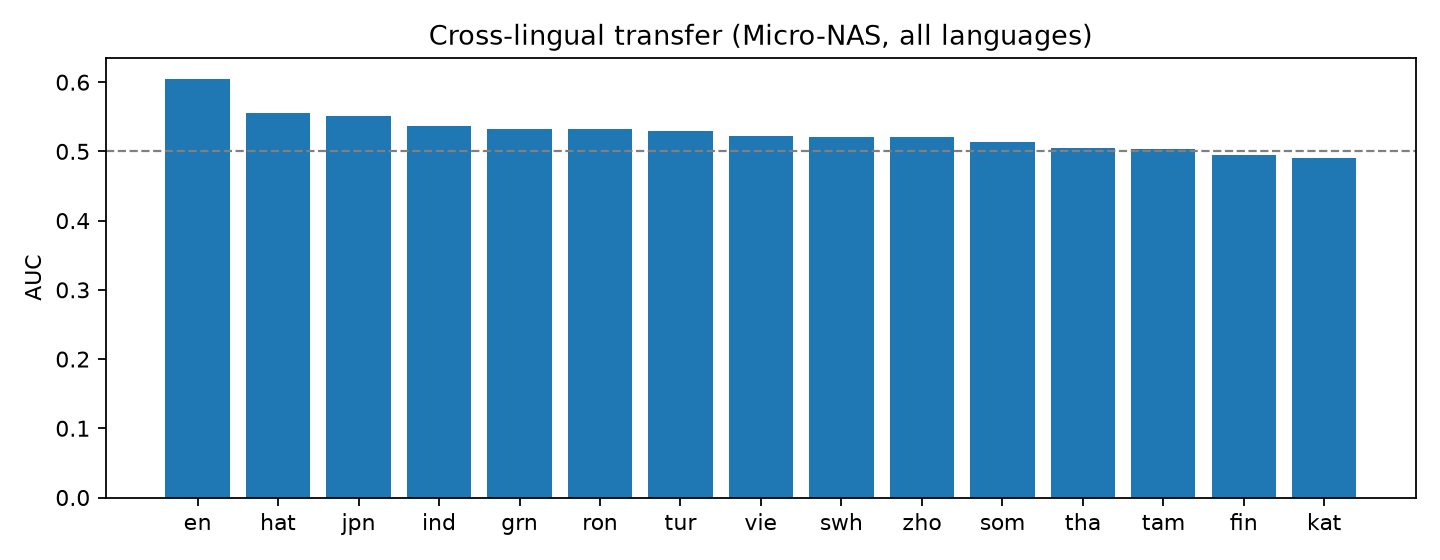
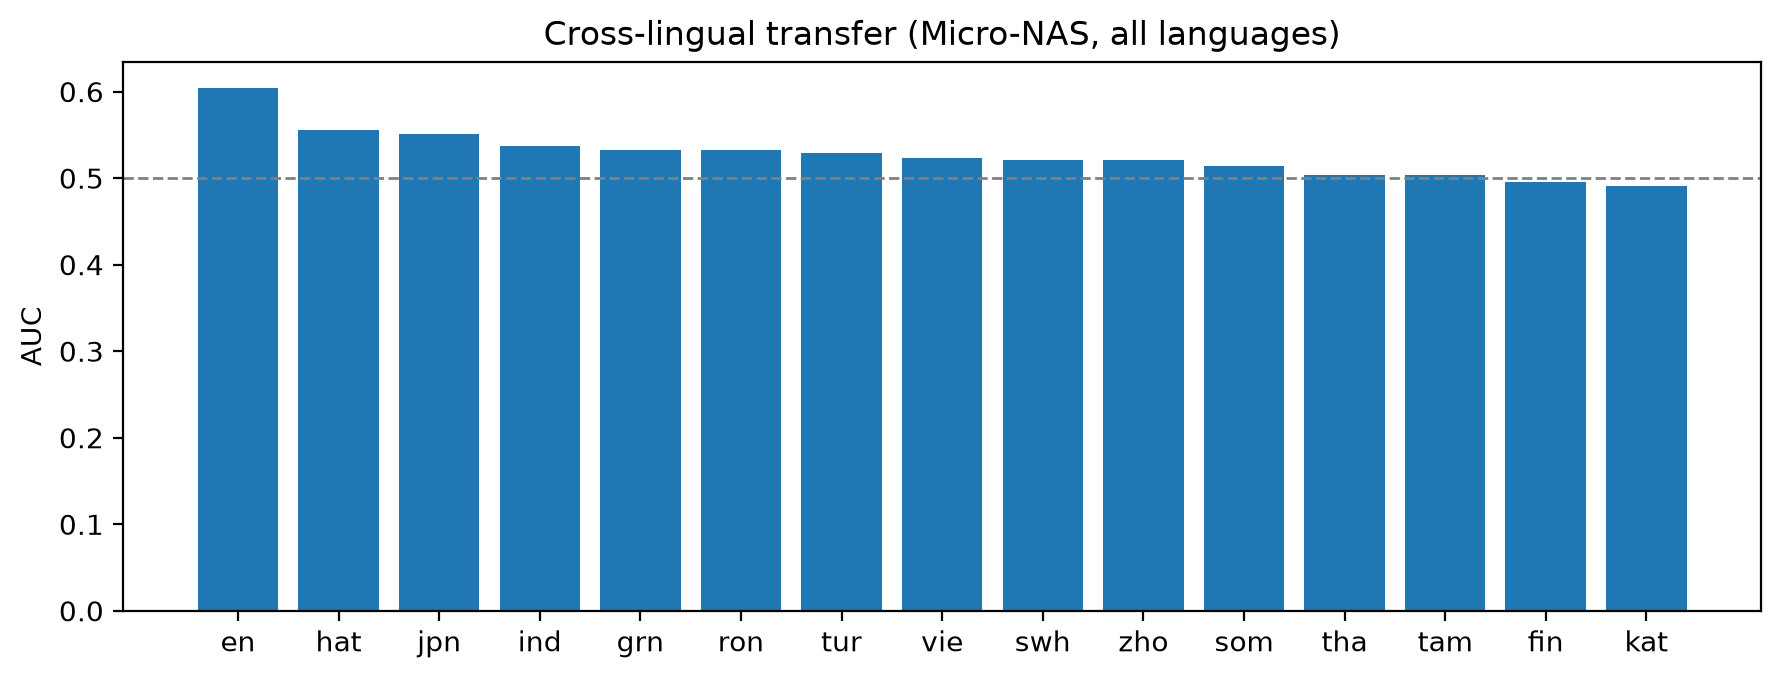
Reviewer revision (round 1): honest scoping, repro details, caveats
Addresses peer-review points that need no on-device hardware:
- scope honestly: language-agnostic CONTENT encoder + cross-lingual transfer
  (not end-to-end multilingual personalization); on-device = analytical/laptop,
  Pi5/STM32 = future; quantify "1/130 the size" in abstract
- reproducibility: NAS config (pop 30, 15 gen, 20k-title fitness, constraint
  rejection + threshold rationale); energy proxy constants (4.6/0.23/0.0072 pJ)
  + compute-only caveat (ignores SRAM/memory)
- binary: software-popcount latency penalty on Cortex-M7 -> no speed claim;
  byte-sequence length -> SRAM-bandwidth limitation noted
- hi-DPI figures (200 dpi, tight bbox); eval gains history-length filter
  (cold-start) in src/recommender.py
- experiments running: multi-seed +/-std, Matryoshka, cold-start (scripts/run_reviews.py)

Changed region(s): [[0.0, 0.0304, 1.0, 0.9714]]

diff --git a/scripts/run_reviews.py b/scripts/run_reviews.py
@@ -1,0 +1,114 @@
+"""Reviewer-requested experiments (MINDsmall-dev):
+  1. Multi-seed mean +/- std for the key configs (Micro-NAS INT8, NAS INT8,
+     Micro-NAS Binary-improved).
+  2. Matryoshka: cosine-to-anchor of the distilled student at truncated dims.
+  3. Cold-start: AUC for cold users (no/short history) vs warm users.
+Saves artifacts/reviews.json. Run: python -m scripts.run_reviews
+"""
+import json
+import random
+import statistics as st
+from pathlib import Path
+
+import numpy as np
+import torch
+import torch.nn.functional as F
+
+from src.config import load_config
+from src import recommender, student, quantize
+from src.nas.search import build_encoder
+from src.binary import BinaryByteCNNEncoder
+
+cfg = load_config()
+device = "cuda" if torch.cuda.is_available() else "cpu"
+SEEDS = [42, 1, 2]
+MICRO = {"channels": 64, "depth": 5, "out_dim": 384}
+NAS = {"channels": 256, "depth": 4, "out_dim": 384}
+TRAIN_EP, QAT_EP, DISTILL_EP = 8, 2, 12
+
+
+def seed_all(s):
+    random.seed(s); np.random.seed(s); torch.manual_seed(s)
+    if torch.cuda.is_available():
+        torch.cuda.manual_seed_all(s)
+    cfg["seed"] = s
+
+
+def train_base(arch):
+    return recommender.train_recommender(cfg, news_encoder=build_encoder(cfg, arch), epochs=TRAIN_EP)
+
+
+def int8_auc(arch):
+    m = train_base(arch)
+    qm = quantize.convert_to_quant(m, "int8").to(device)
+    qm = recommender.train_recommender(cfg, model=qm, epochs=QAT_EP)
+    return recommender.evaluate(cfg, qm, split="dev")["auc"]
+
+
+def binary_auc(arch):
+    bn = student.build_distill_data  # noqa
+    bytes_np, tgt_np, anchors = student.build_distill_data(cfg, "train")
+    at = torch.tensor(anchors, device=device)
+    dl = torch.utils.data.DataLoader(
+        torch.utils.data.TensorDataset(torch.tensor(bytes_np, dtype=torch.long),
+                                       torch.tensor(tgt_np, dtype=torch.long)),
+        batch_size=512, shuffle=True, drop_last=True)
+    enc = BinaryByteCNNEncoder(cfg["student"]["byte_embed_dim"], **arch).to(device)
+    opt = torch.optim.AdamW(enc.parameters(), lr=cfg["train"]["distill_lr"])
+    dims = (64, 128, 256, 384)
+    enc.train()
+    for _ in range(DISTILL_EP):
+        for ids, ti in dl:
+            ids = ids.to(device); tgt = at[ti.to(device)]
+            pred = F.normalize(enc(ids), dim=-1)
+            loss = sum(1 - F.cosine_similarity(pred[:, :d], tgt[:, :d], dim=-1).mean()
+                       for d in dims) / len(dims)
+            opt.zero_grad(); loss.backward(); opt.step()
+    m = recommender.train_recommender(cfg, model=recommender.NewsRecommender(enc), epochs=TRAIN_EP)
+    return recommender.evaluate(cfg, m, split="dev")["auc"]
+
+
+def multiseed():
+    out = {}
+    for name, fn in [("micro_int8", lambda: int8_auc(MICRO)),
+                     ("nas_int8", lambda: int8_auc(NAS)),
+                     ("micro_binary_improved", lambda: binary_auc(MICRO))]:
+        vals = []
+        for s in SEEDS:
+            seed_all(s)
+            vals.append(round(fn(), 4))
+            print(f"[{name}] seed {s}: {vals[-1]}", flush=True)
+        out[name] = {"seeds": vals, "mean": round(st.mean(vals), 4),
+                     "std": round(st.pstdev(vals), 4)}
+    return out
+
+
+def matryoshka():
+    seed_all(42)
+    enc = student.train_student(cfg).to(device).eval()
+    nids, anc = student.teacher.build_anchors(cfg, "dev")
+    import src.data_mind as dm
+    news = dm.read_news(cfg, "dev")
+    L = cfg["data"]["max_title_bytes"]
+    from src.student import text_to_bytes
+    X = torch.tensor([text_to_bytes(news[n]["title"], L) for n in nids[:8000]],
+                     dtype=torch.long, device=device)
+    A = torch.tensor(anc[:8000], device=device)
+    with torch.no_grad():
+        P = enc(X)
+    return {str(d): round(F.cosine_similarity(P[:, :d], A[:, :d], dim=-1).mean().item(), 4)
+            for d in (64, 128, 256, 384)}
+
+
+def coldstart():
+    seed_all(42)
+    m = train_base(MICRO)
+    warm = recommender.evaluate(cfg, m, split="dev", min_hist=5)["auc"]
+    cold = recommender.evaluate(cfg, m, split="dev", max_hist=0)["auc"]
+    short = recommender.evaluate(cfg, m, split="dev", min_hist=1, max_hist=4)["auc"]
+    return {"cold_nohist": round(cold, 4), "short_1to4": round(short, 4), "warm_ge5": round(warm, 4)}
+
+
+res = {"multiseed": multiseed(), "matryoshka": matryoshka(), "coldstart": coldstart()}
+Path(cfg["paths"]["artifacts_dir"], "reviews.json").write_text(json.dumps(res, indent=2))
+print("REVIEWS DONE:", json.dumps(res, indent=2))

diff --git a/paper/paper.tex b/paper/paper.tex
@@ -50,15 +50,18 @@ of ranking quality (AUC, MRR, nDCG@5/10 on MIND) against \textbf{flash
 footprint, RAM, and energy} targeting an
 RTX~5070 $\to$ Raspberry~Pi~5 $\to$ STM32H7 path (laptop-measured; on-device
 boards are future work). INT8 Micro-NAS reaches \textbf{0.610} AUC at \textbf{204\,KB}, matching
-a full NRMS word-embedding baseline (0.607) at a fraction of the
-size, while unconstrained INT8 NAS reaches \textbf{0.647} AUC at 790\,KB
-(+0.04 over NRMS, with no vocabulary table and full multilingual coverage);
+a full NRMS word-embedding baseline (0.607) at ${\sim}1/130$ the size
+(204\,KB vs.\ 27\,MB), while unconstrained INT8 NAS reaches \textbf{0.647} AUC at
+790\,KB (+0.04 over NRMS, with no vocabulary table, covering all 14 xMIND
+languages by cross-lingual transfer);
 binarization cuts the footprint to \textbf{186--239\,KB}: naive 1-bit is weak
 (0.52--0.55 AUC), but ReActNet-style training with a distilled initialisation
-recovers it to \textbf{0.572} at 186\,KB, making fully-binary on-device
-recommendation viable.
-We release the full pipeline and exportable cold-start prior and content
-encoder for edge deployment.
+recovers it to \textbf{0.572} at 186\,KB, a usable ultra-low-footprint option.
+Multilingual numbers are cross-lingual transfer through one language-agnostic
+\emph{content} encoder (the user model uses English click logs); on-device
+latency/energy are analytical or laptop-measured, with Pi\,5/STM32H7 boards as
+future work. We release the full pipeline, the exportable cold-start prior, and
+the content encoder.
 
 \keywords{Edge AI \and Neural Architecture Search \and Binarized Neural
 Networks \and Multilingual News Recommendation \and TinyML \and Knowledge
@@ -231,8 +234,11 @@ with a distilled initialisation to recover ranking accuracy (Sect.~5).
 \subsection{Footprint \& Energy}
 
 Params and MACs via \texttt{thop}; model size $=$ params\,$\times$\,bytes\,/\,precision;
-energy proxy $=$ MACs\,$\times$\,per-op energy (Horowitz 45\,nm~\cite{horowitz2014}),
-labelled relative. Latency is \emph{measured} on the laptop (CUDA-synced timing on
+energy proxy $=$ MACs\,$\times$\,per-op energy from Horowitz 45\,nm~\cite{horowitz2014}
+(FP32 MAC 4.6\,pJ, INT8 MAC 0.23\,pJ, 1-bit op 0.0072\,pJ). This is a
+\emph{compute-only} proxy: it ignores memory-access / SRAM energy and instruction
+overhead, so absolute on-device energy will differ and we use it only for
+relative comparison. Latency is \emph{measured} on the laptop (CUDA-synced timing on
 the GPU; onnxruntime on the CPU). On-device Pi~5 and STM32H7 latency/energy
 (onnxruntime + INA219; X-CUBE-AI cycles) are \textbf{future work}; those boards
 are not yet available, so no Pi~5/STM32H7 numbers are reported.
@@ -272,6 +278,13 @@ NRMS, is trained on \emph{English MINDsmall clicks only}, so the accuracy
 comparison is like-for-like. xMIND text is used only (a)~at evaluation, for
 cross-lingual transfer, and (b)~in the distillation stage of the distilled-init
 encoder (the ablation in Sect.~5); no model receives non-English click supervision.
+
+\noindent\textbf{NAS configuration.} Evolutionary search with population~30 and
+15~generations; each candidate is scored by a 2-epoch distillation on a 20k-title
+subset (cosine to the teacher anchors), and candidates that violate the
+flash/RAM/MAC budget are rejected. The Micro-NAS thresholds (256\,KB / 128\,KB /
+2\,M MACs) sit ${\sim}8\times$ below the STM32H7 ceiling so they bind at this
+small encoder scale; relaxing them collapses Micro-NAS into the unconstrained NAS arm.
 
 \noindent\textbf{Hardware \& measurement.}
 All training and architecture search run on a single laptop: Intel Core
@@ -411,7 +424,10 @@ en & hat & jpn & grn & ron & tur & vie & swh & zho & ind & som & tha & tam & fin
 All 14~languages run on one sub-2\,MB model with no per-language table (Table~\ref{tab:multilingual}).
 Transfer is strongest for Latin-script / higher-resource targets and weakest for
 low-resource or distinct-script languages (Georgian~kat, Finnish~fin, Tamil~tam),
-tracking NLLB translation quality.
+tracking NLLB translation quality. These numbers measure the content encoder's
+\emph{cross-lingual reach}, not native-language personalisation: the user model is
+trained on English clicks, so this is transfer, not multilingual user modelling --
+a language-agnostic \emph{content encoder}, not an end-to-end multilingual recommender.
 
 \subsection{Baseline Comparison}
 
@@ -522,8 +538,15 @@ single laptop of Table~\ref{tab:hw}.
     Larq is now archived), so binary-on-MCU stays analytical. We verified Larq
     itself loads (via a Keras-2 shim), but Larq Compute Engine---the 1-bit ARM
     runtime---has no Windows build, so real binary inference awaits a Linux/ARM
-    setup with the boards. Cortex-M7 also lacks POPCOUNT, so binary is
-    \emph{footprint-motivated, not latency-motivated}.
+    setup with the boards. Cortex-M7 also lacks a hardware POPCOUNT, so 1-bit dot
+    products fall back to software bit-counting that can erase the theoretical MAC
+    saving in latency and dynamic energy; we therefore make no binary \emph{speed}
+    claim and treat binary as \emph{footprint-motivated only}.
+  \item \textbf{Byte sequences are longer.} A byte-level encoder processes
+    ${\sim}5\times$ more positions than a word model, so on an MCU its 1-D
+    convolutions incur proportionally more activation/SRAM traffic; this trades a
+    large flash saving for higher memory bandwidth, which the laptop latencies do
+    not capture and on-device tests must quantify.
   \item \textbf{Cross-lingual transfer only.} xMIND reuses English impressions;
     results are not native-language click behaviour.
   \item \textbf{MT quality} varies for low-resource languages (grn, hat, som).

diff --git a/src/recommender.py b/src/recommender.py
@@ -133,9 +133,12 @@ def train_recommender(cfg: dict, news_encoder: nn.Module | None = None,
 # --------------------------------------------------------------- evaluation
 @torch.no_grad()
 def evaluate(cfg: dict, model: NewsRecommender, split: str = "dev",
-             lang: str | None = None, max_impressions: int | None = None) -> dict:
+             lang: str | None = None, max_impressions: int | None = None,
+             min_hist: int | None = None, max_hist: int | None = None) -> dict:
     """Impression-level ranking metrics. ``lang`` swaps title text to an xMIND
-    language (cross-lingual transfer); ``None`` = English MIND."""
+    language (cross-lingual transfer); ``None`` = English MIND.
+    ``min_hist``/``max_hist`` filter impressions by clicked-history length (for
+    cold-start analysis: e.g. max_hist=0 = users with no history)."""
     device = next(model.parameters()).device
     news = (data_xmind.localized_news(cfg, lang, split) if lang
             else data_mind.read_news(cfg, split))
@@ -148,6 +151,10 @@ def evaluate(cfg: dict, model: NewsRecommender, split: str = "dev",
 
     impressions = data_mind.build_eval_impressions(
         data_mind.read_behaviors(cfg, split), cfg["data"]["max_history"])
+    if min_hist is not None:
+        impressions = [i for i in impressions if len(i["history"]) >= min_hist]
+    if max_hist is not None:
+        impressions = [i for i in impressions if len(i["history"]) <= max_hist]
     if max_impressions:
         impressions = impressions[:max_impressions]
 

diff --git a/scripts/make_figures.py b/scripts/make_figures.py
@@ -34,7 +34,7 @@ ax[1].set_xscale("log")
 for a in ax:
     a.legend(fontsize=8); a.grid(alpha=0.3)
 plt.tight_layout()
-plt.savefig(figdir / "pareto.png", dpi=160)
+plt.savefig(figdir / "pareto.png", dpi=200, bbox_inches="tight")
 print("wrote", figdir / "pareto.png")
 
 # Fig 2: per-language AUC bar.
@@ -45,5 +45,5 @@ if (art / "lang_matrix.csv").exists():
     plt.axhline(0.5, color="grey", ls="--", lw=1)
     plt.ylabel("AUC"); plt.title("Cross-lingual transfer (Micro-NAS, all languages)")
     plt.tight_layout()
-    plt.savefig(figdir / "multilingual.png", dpi=160)
+    plt.savefig(figdir / "multilingual.png", dpi=200, bbox_inches="tight")
     print("wrote", figdir / "multilingual.png")